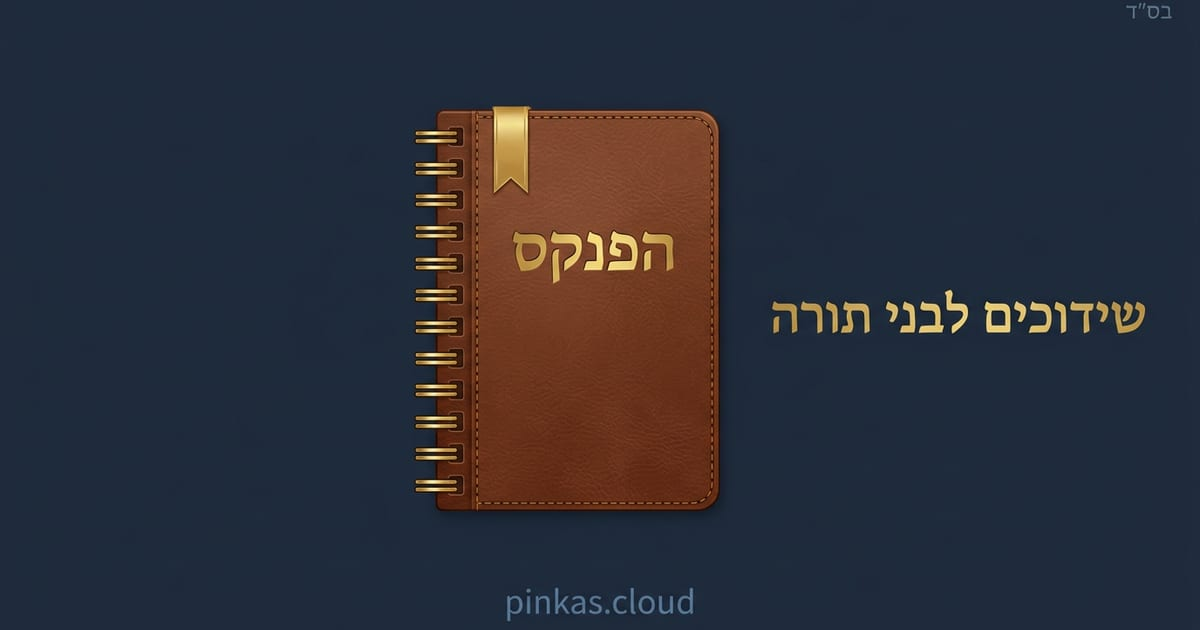
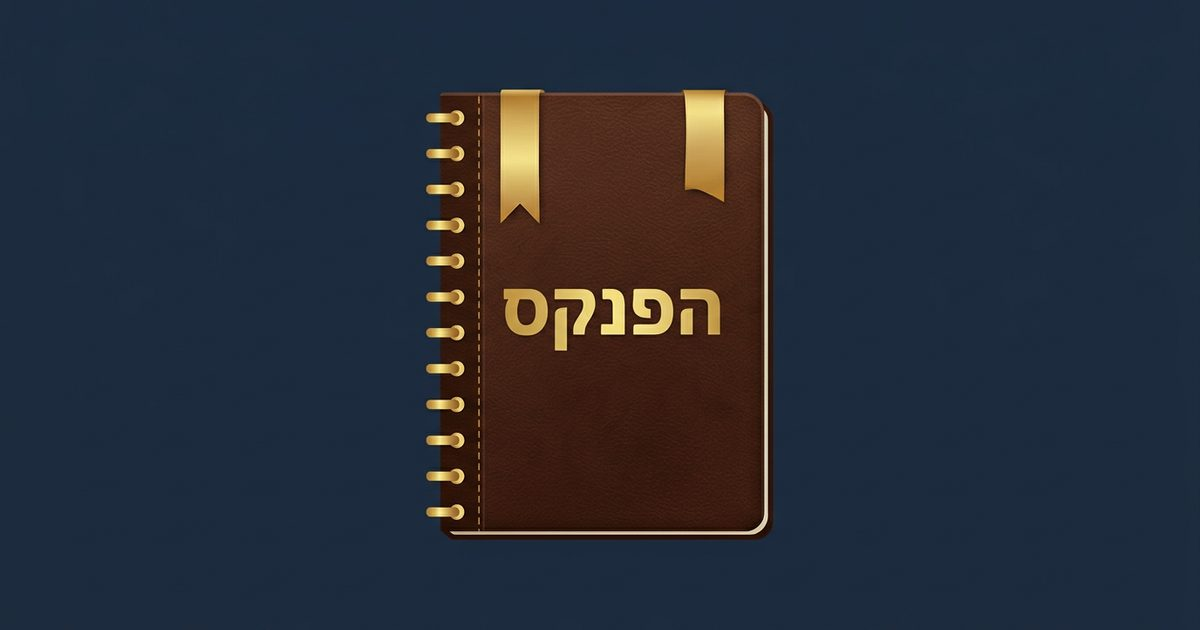
clean notebook og image + update og title and description
Made-with: Cursor

Changed region(s): [[0.3392, 0.1206, 0.9558, 0.8746], [0.4008, 0.9349, 0.5858, 0.9952], [0.925, 0.0, 0.9867, 0.0302]]

diff --git a/frontend/index.html b/frontend/index.html
@@ -13,8 +13,8 @@
   <!-- Open Graph / WhatsApp card -->
   <meta property="og:type" content="website" />
   <meta property="og:url" content="https://pinkas.cloud/" />
-  <meta property="og:title" content="הפנקס - שידוכים בדרך הצנועה והרצינית" />
-  <meta property="og:description" content="מערכת שידוכים קהילתית שחיברה בין נתונים בצורה חסויה, ללא צ'אטים ישירים — הכל דרך שדכנית מקצועית. גם בטלפון הכשר." />
+  <meta property="og:title" content='בס"ד | הפנקס — שידוכים לבני תורה' />
+  <meta property="og:description" content="הדרך הצנועה למצוא את ההתאמה הנכונה — גם דרך האתר וגם בטלפון הכשר." />
   <meta property="og:image" content="https://pinkas.cloud/og-share.jpg" />
   <meta property="og:image:type" content="image/jpeg" />
   <meta property="og:image:width" content="1200" />
@@ -24,8 +24,8 @@
 
   <!-- Twitter / fallback -->
   <meta name="twitter:card" content="summary" />
-  <meta name="twitter:title" content="הפנקס - שידוכים בדרך הצנועה והרצינית" />
-  <meta name="twitter:description" content="מערכת שידוכים קהילתית שחיברה בין נתונים בצורה חסויה, ללא צ'אטים ישירים — הכל דרך שדכנית מקצועית. גם בטלפון הכשר." />
+  <meta name="twitter:title" content='בס"ד | הפנקס — שידוכים לבני תורה' />
+  <meta name="twitter:description" content="הדרך הצנועה למצוא את ההתאמה הנכונה — גם דרך האתר וגם בטלפון הכשר." />
   <meta name="twitter:image" content="https://pinkas.cloud/og-share.jpg" />
   <link rel="preconnect" href="https://fonts.googleapis.com">
   <link rel="preconnect" href="https://fonts.gstatic.com" crossorigin>
